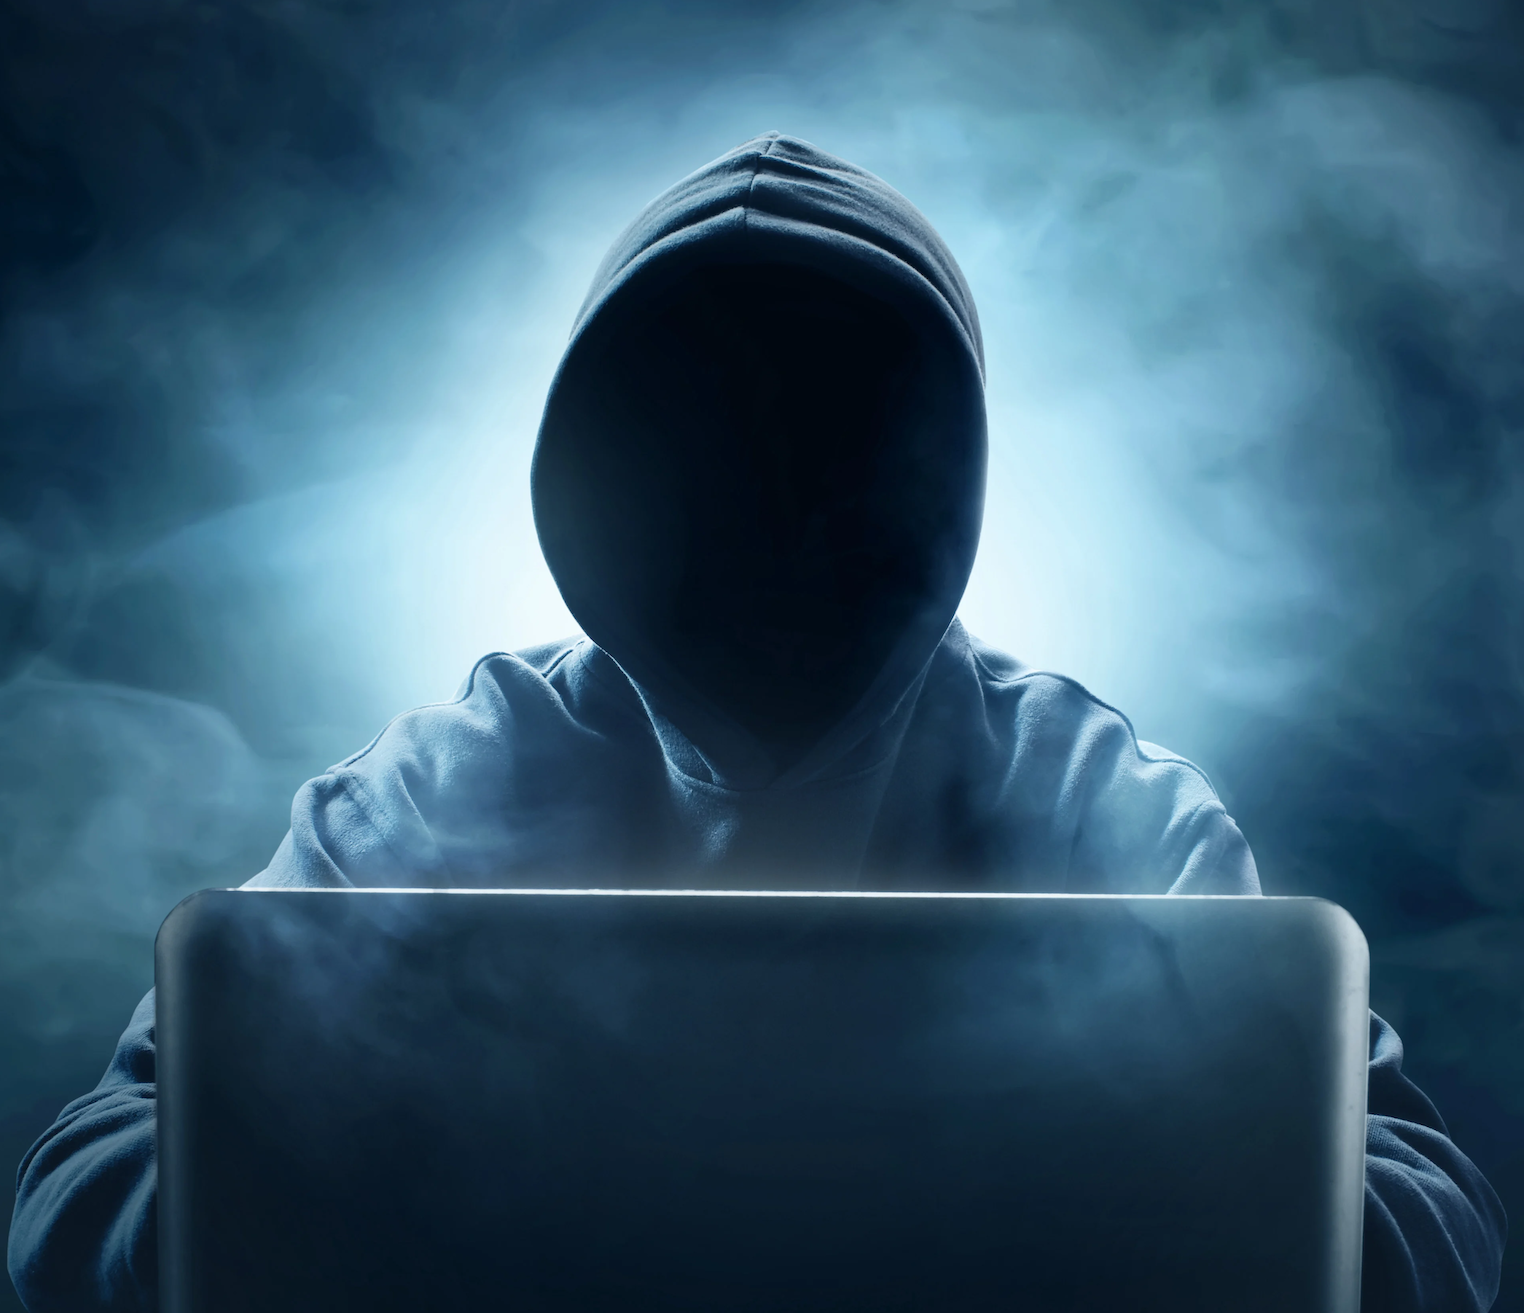
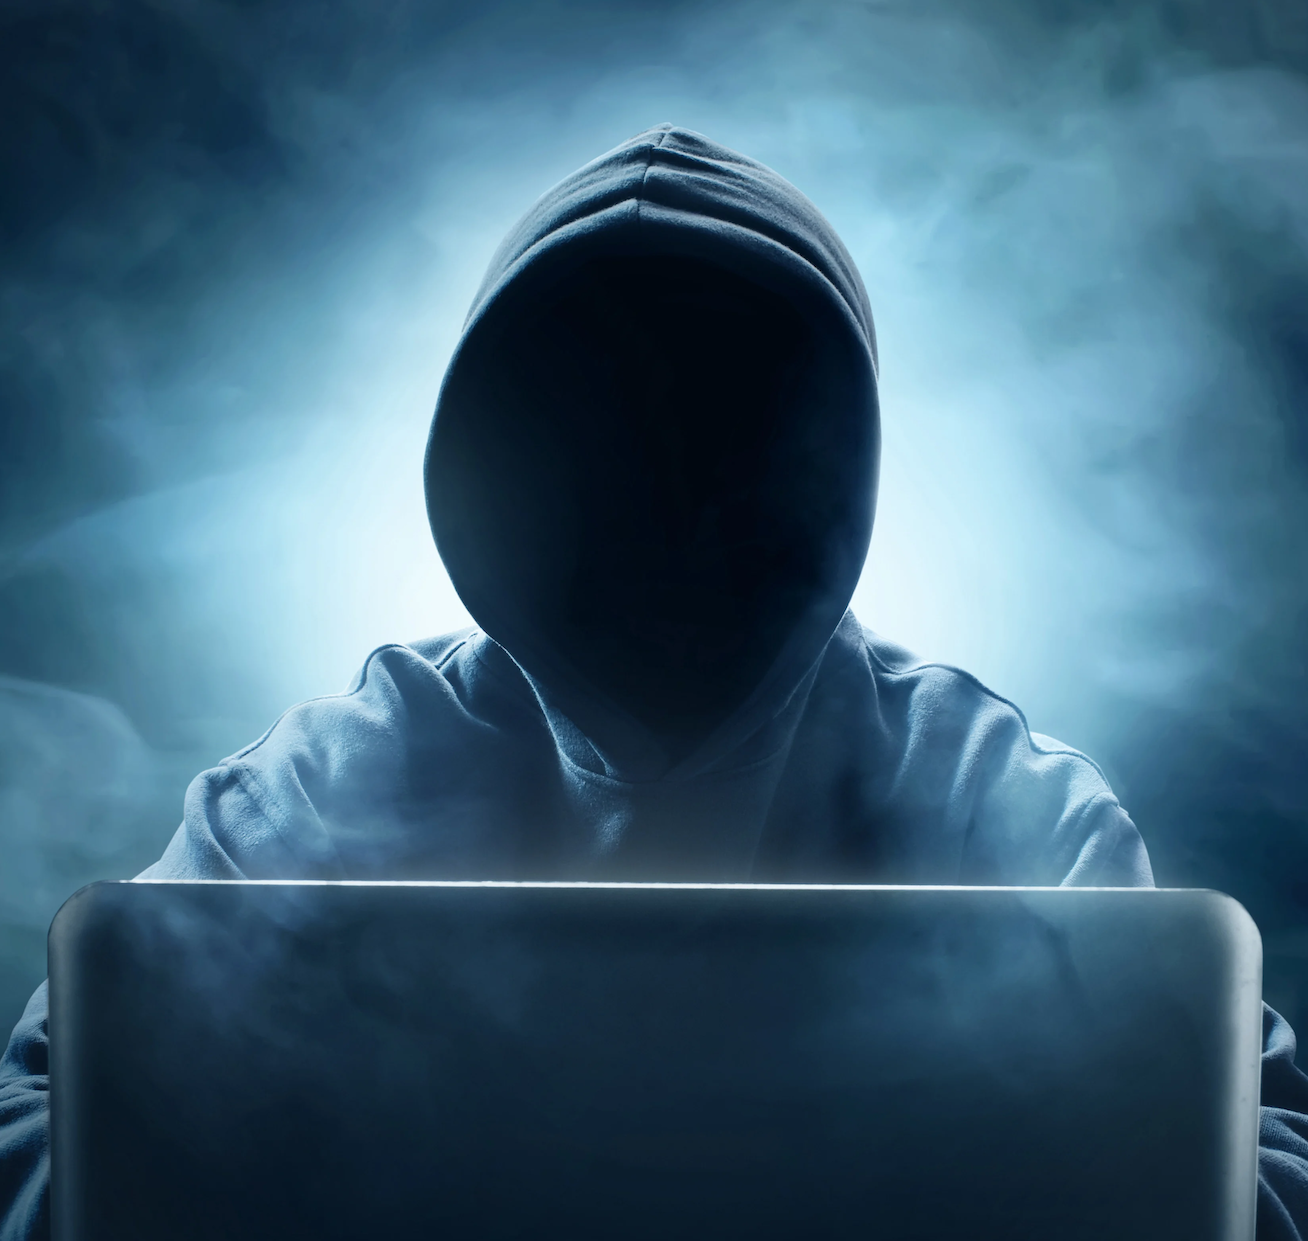
💅: links header to homepage

diff --git a/src/config/prompts.ts b/src/config/prompts.ts
@@ -8,7 +8,7 @@ export const prompts = (gender: string): Prompt[] => [
   {
     label: "digital renegade",
     prompt: `A compelling portrayal of a ${gender} hacker immersed in the digital underworld, surrounded by the glow of computer screens displaying lines of code and intricate cybernetic visuals, their expression intense and focused as they navigate through layers of encrypted data, dressed in urban streetwear with a hint of cyberpunk flair, photography, detailed skin, detailed texture, realistic, photo-realistic, 8k, highly detailed, full-length frame, High detail RAW color art, neon-lit ambient lighting with flickering shadows, shallow depth of field, sharp focus, cinematic lighting capturing the clandestine world of digital rebellion`,
-    image: "/images/hacker_prompt.jpg",
+    image: "/images/hacker.png",
   },
 
   {

diff --git a/src/components/navigation/Header.tsx b/src/components/navigation/Header.tsx
@@ -41,7 +41,9 @@ export default function Header() {
 
       <NavbarContent className="hidden sm:flex gap-4" justify="center">
         <NavbarBrand>
-          <ThemedLogo />
+          <Link href="/">
+            <ThemedLogo />
+          </Link>
         </NavbarBrand>
       </NavbarContent>
 
